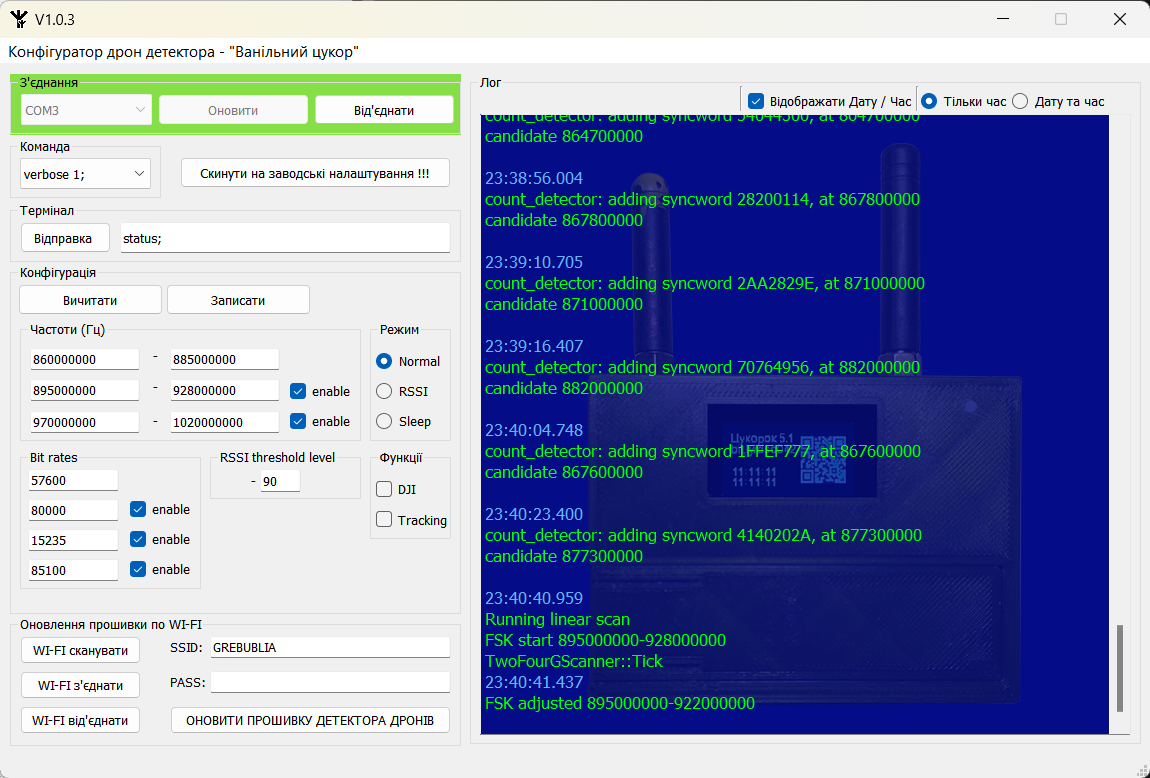
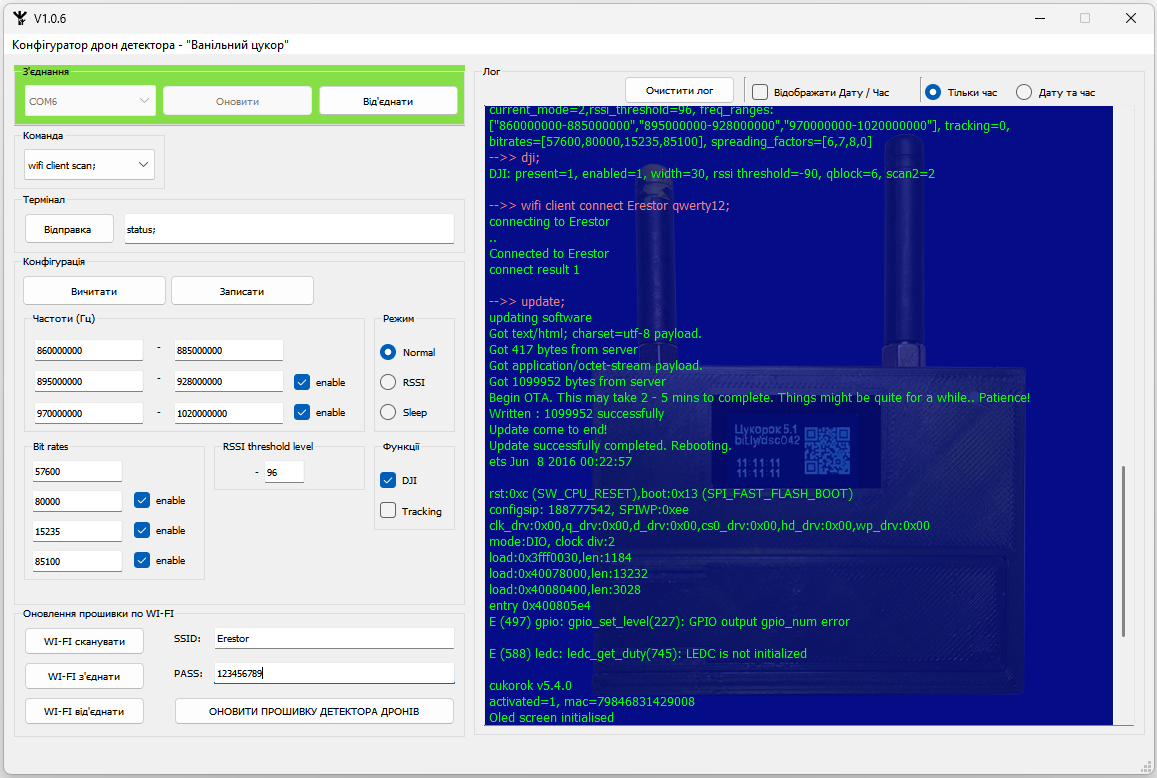
New commands added. The factory reset function has been removed, at the developer's request.

diff --git a/mainwindow.cpp b/mainwindow.cpp
@@ -5,7 +5,7 @@
 
 int status_connect_com = 0;
 
-QString version ="V1.0.4";
+QString version ="V1.0.6";
 
 MainWindow::MainWindow(QWidget *parent)
     : QMainWindow(parent)
@@ -44,6 +44,10 @@ MainWindow::MainWindow(QWidget *parent)
 
     //ui->radioButton_datim->setChecked(true);
     ui->radioButton_time->setChecked(true);
+    //-------------------------------------------------------------------------------------------------------------------------------------------------------
+    ui->pushButton_4->hide();                   // приховав за вимогою розробників кнопку - "Скинути на заводські налаштування", є глюк з цим функціоналом!!!
+                                                // Є баг що скидається активація і користувачам доводиться повторно активувати через відправку кода адмінам.
+    //-------------------------------------------------------------------------------------------------------------------------------------------------------
 
 
 }
@@ -103,7 +107,7 @@ void MainWindow::on_pushButton_5_clicked()      // оновити доступн
         {
             //qDebug() << "Назва - " + info.portName() + " " + info.description() + info.manufacturer();
 
-            ui -> textBrowser -> insertPlainText(info.portName() + " " + info.description() + info.manufacturer());
+            ui -> textBrowser -> insertPlainText(info.portName() + " " + info.description() + info.manufacturer() + "\n");
             ui -> comboBox -> addItem(info.portName());
         }
     }
@@ -140,12 +144,18 @@ void MainWindow::on_pushButton_clicked()            // підключити/ві
             serial -> setParity(QSerialPort::NoParity);
             serial -> setStopBits(QSerialPort::OneStop);
             serial -> setFlowControl(QSerialPort::NoFlowControl);
-            serial -> setDataTerminalReady(false);
             serial -> setReadBufferSize(1024);
 
+            serial -> setDataTerminalReady(false);
+            serial -> setRequestToSend(false);
+            serial -> setSettingsRestoredOnClose(false);
+
+
+            //serial -> ;
 
 
             if (serial -> open(QIODevice::ReadWrite) ){    // відкриваєм порт або перевіряєм його зайнятість
+                serial -> setSettingsRestoredOnClose(false);
                 //qDebug() << "Під'єднано";
                 //qDebug() << "setDataTerminalReady" << serial->setDataTerminalReady(false);
                 ui -> pushButton   -> setText("Від'єднати");
@@ -307,6 +317,24 @@ void MainWindow::on_comboBox_2_activated(void)
       case 15:
        serial -> write("test alarm tracking;");
        break;
+      case 16:
+        serial -> write("log view;");
+        break;
+      case 17:
+        serial -> write("log reset;");
+        break;
+      case 18:
+        serial -> write("screensaver 1;");
+        break;
+      case 19:
+        serial -> write("screensaver 0;");
+        break;
+      case 20:
+        serial -> write("autoreturn 1;");
+        break;
+      case 21:
+        serial -> write("autoreturn 0;");
+       break;
     }
 }
 
@@ -330,7 +358,7 @@ void MainWindow::on_pushButton_4_clicked()
     ui->textBrowser->setTextColor(QColor(255, 125, 125));
     ui -> textBrowser -> insertPlainText("\n-->> reset settings;\n");
     auto_scroll_down();
-    serial -> write("reset settings;");
+    serial -> write("reset settings;"); // Небезпечно!!!! Є баг що скидається активація і користувачам доводиться повторно активувати через відправку кода адмінам.
 }
 
 void MainWindow::on_pushButton_3_clicked()
